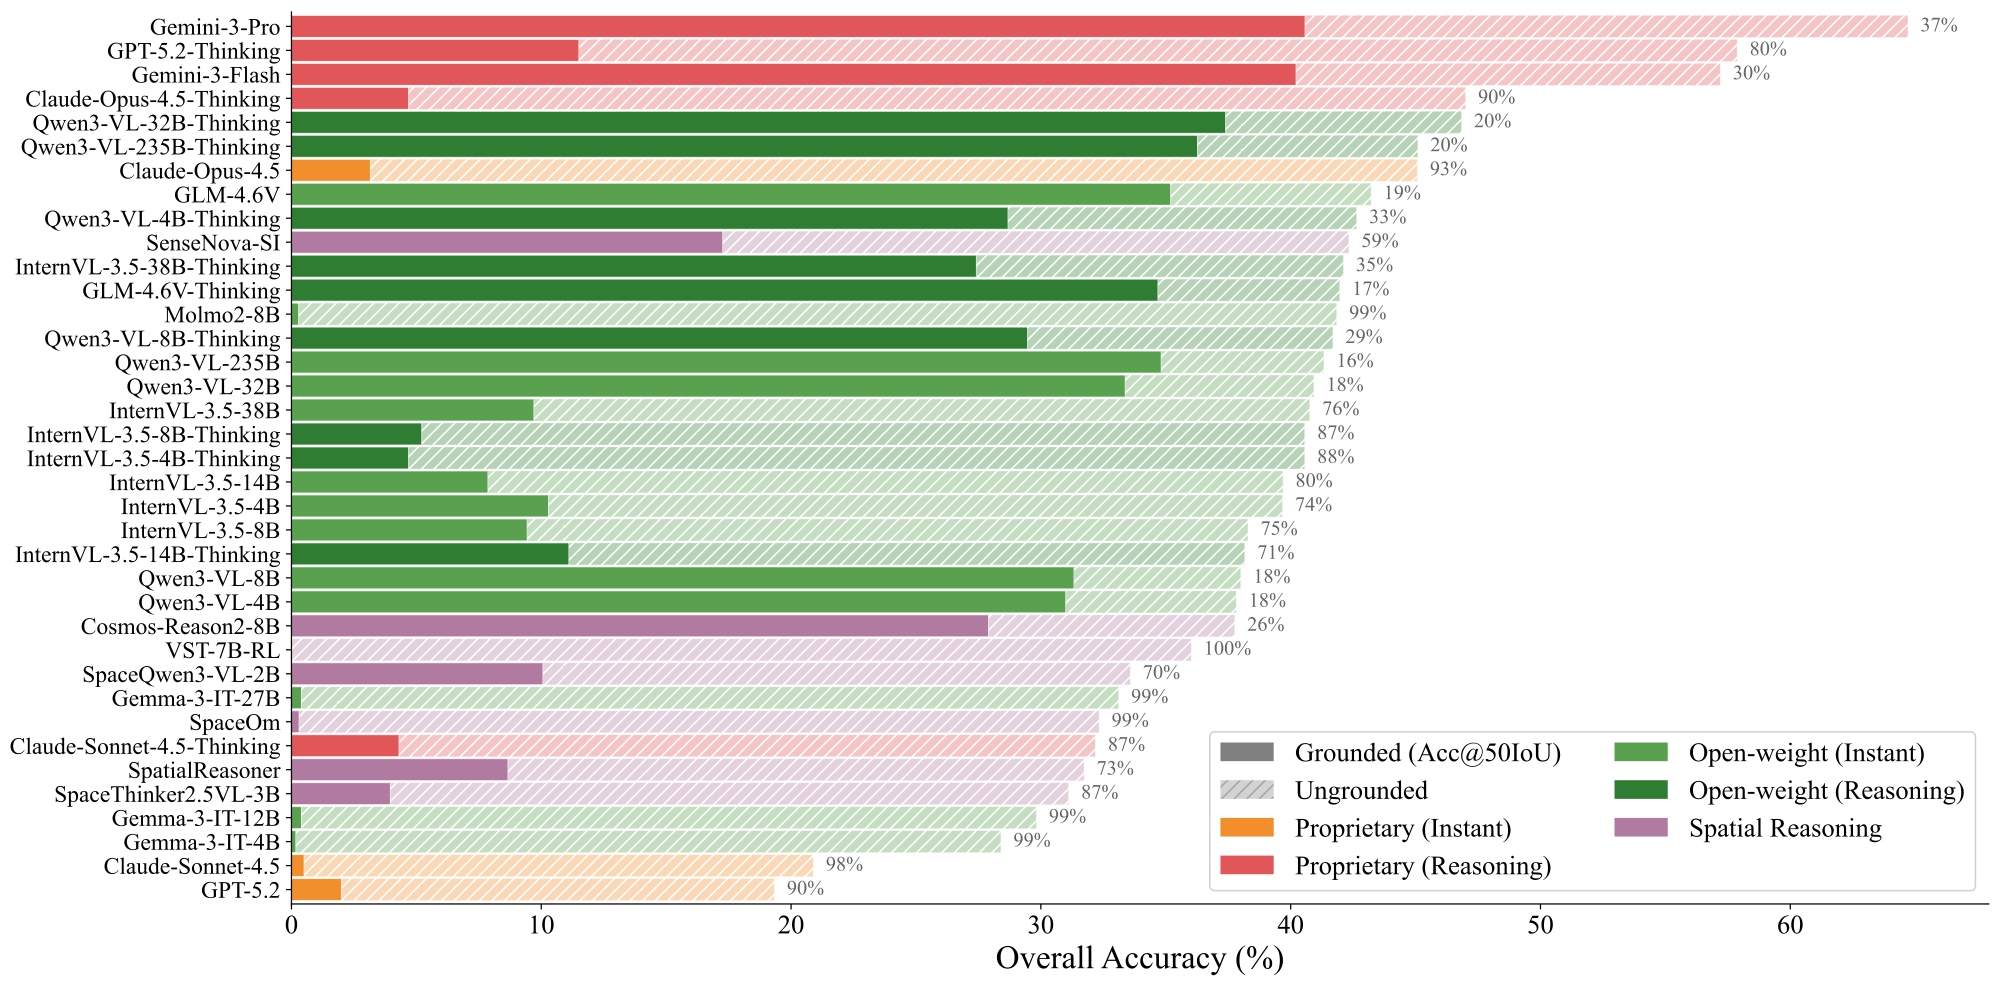
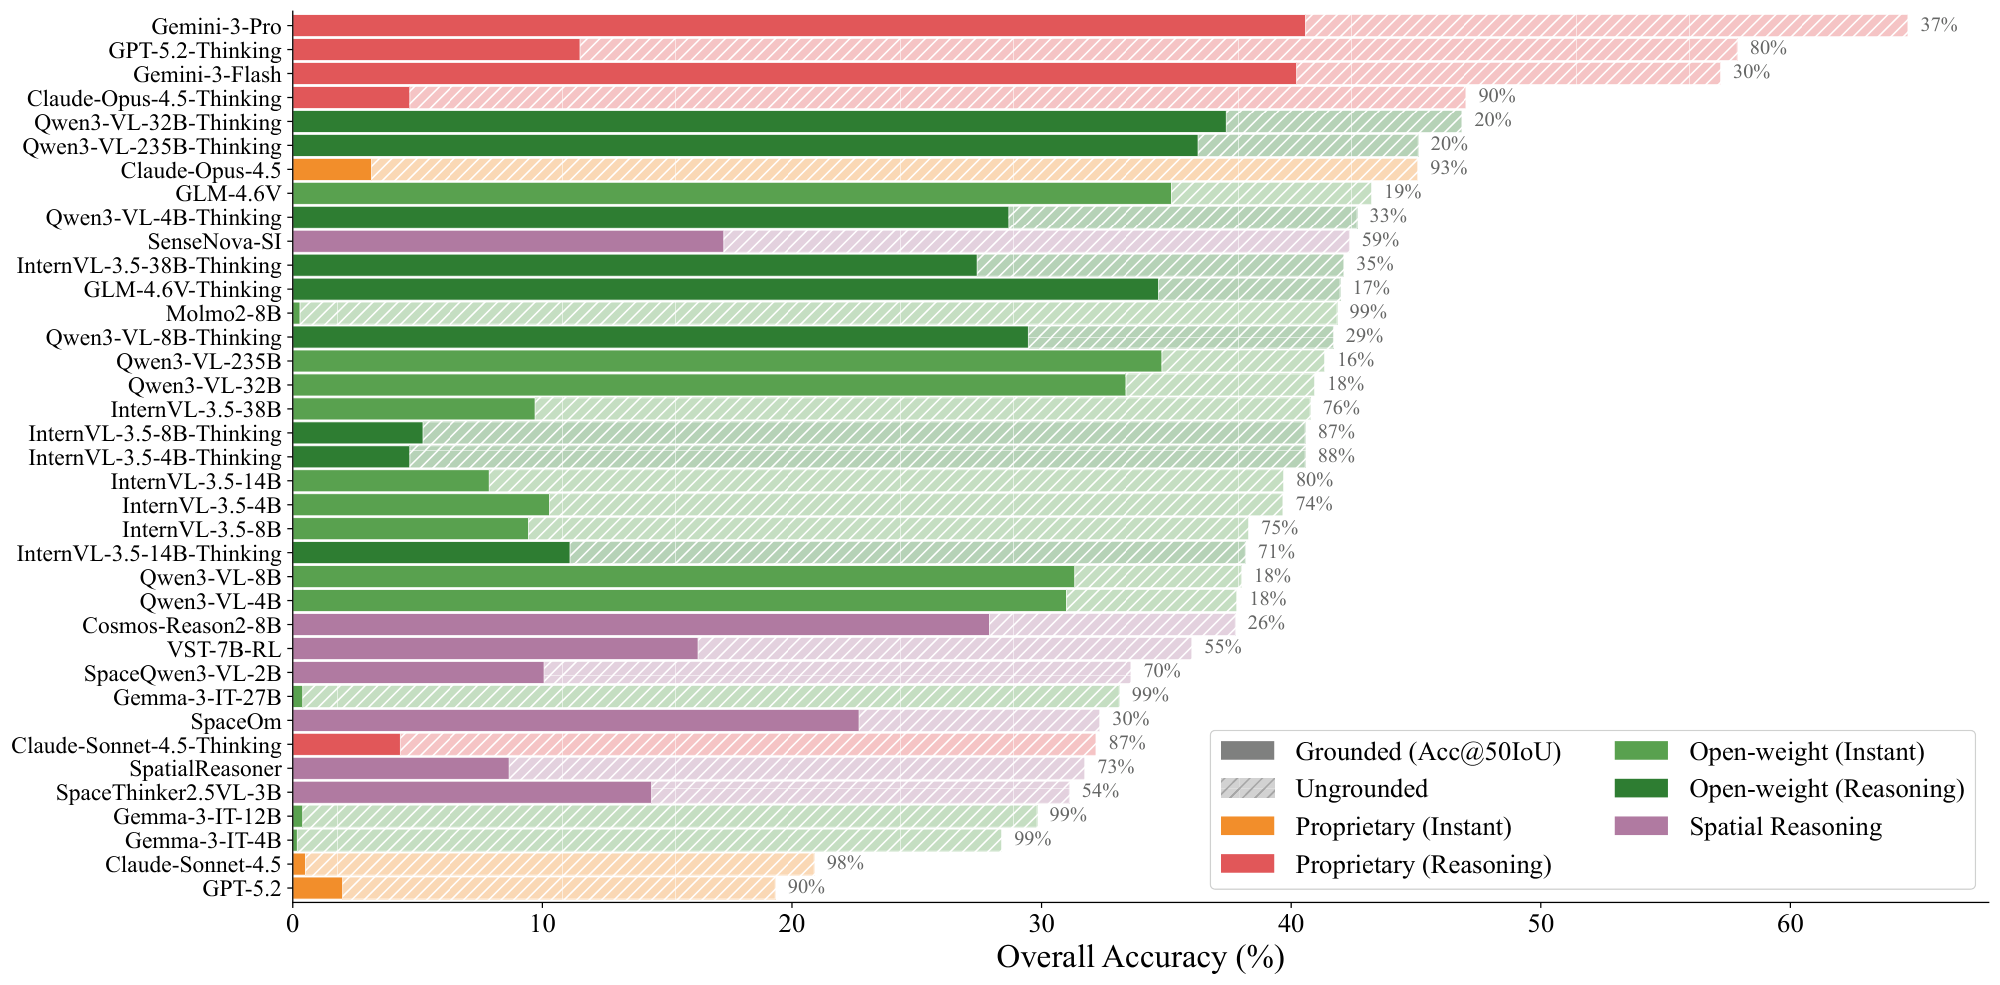
Update in-depth analysis figures and text for revised SRM results
Regenerate A1-A6 and A8 figures from the camera-ready LaTeX sources; the
A7 scaling figure is unaffected by the specialized-model update.

- A5: rewrite the conclusion. SRMs trail generalists on MCQ at every hop
  (-4.6 -> -1.6 -> -0.8) but overtake them on Acc@50IoU (+1.6/+4.0/+3.4);
  their advantage is grounding, not compositional reasoning.
- A1: replace the "widening ego-exo gap" claim (absolute gap actually
  narrows) with relative retention: 55.5% vs 63.6% of 1-hop MCQ accuracy
  at 3-hop, ego/exo ratio 0.48 -> 0.42.
- A3: the reasoning gain narrows only in the ego-centric view
  (+11.9 -> +4.9 pp); the exo-centric gain stays flat (+10.2 -> +10.8 pp).
  Fix "sub-20% MCQ" -> "roughly 20%" (3-hop ego reasoning average is 20.4).

Changed region(s): [[0.0, 0.0, 0.992, 1.0]]

diff --git a/index.html b/index.html
@@ -660,7 +660,7 @@
       </div>
       <div class="question-content">
         <p>Evaluating the impact of reasoning complexity across all 37 models reveals a <strong>consistent performance degradation</strong> as the number of hops increases, confirming that compositional spatial reasoning remains a fundamental challenge for current VLMs. Both MCQ accuracy and Acc@50IoU exhibit steep declines from 1-hop to 3-hop.</p>
-        <p>Crucially, this degradation is <strong>exacerbated under ego-centric evaluation</strong>, which requires additional perspective transformation. The widening performance gap between ego-centric and exo-centric views at higher hops suggests that perspective-taking compounds with multi-step reasoning, creating a <strong>multiplicative rather than additive difficulty</strong>.</p>
+        <p>Crucially, this degradation is <strong>exacerbated under ego-centric evaluation</strong>, which requires additional perspective transformation: going from 1-hop to 3-hop, the ego-centric view retains only <strong>55.5%</strong> of its MCQ accuracy (31.9 &rarr; 17.7) against <strong>63.6%</strong> for the exo-centric view (66.2 &rarr; 42.1), and 53.8% against 69.3% under Acc@50IoU. The ego/exo accuracy ratio therefore shrinks from 0.48 to 0.42, suggesting that perspective-taking compounds with multi-step reasoning in a <strong>multiplicative rather than additive</strong> manner.</p>
         <div class="figure-container">
           <img src="static/figures/fig1_hop_bar.png" alt="Average Performance by Hop Count">
           <p class="figure-caption">Average performance by hop count. Performance degrades consistently as reasoning hops increase.</p>
@@ -693,8 +693,8 @@
         <button class="question-toggle" type="button" aria-expanded="false"><i class="fas fa-chevron-down"></i></button>
       </div>
       <div class="question-content">
-        <p>While reasoning models consistently outperform instant models, this <strong>advantage diminishes under multi-hop pressure</strong>. The initial MCQ gain of up to +8 pp at 1-hop narrows considerably by 3-hop.</p>
-        <p>Critically, even with extended thinking, reasoning models plummet to <strong>sub-20% MCQ accuracy and sub-10% Acc@50IoU</strong> on 3-hop ego-centric tasks. This convergence toward the performance floor reveals that inference-time reasoning (e.g., chain-of-thought) yields diminishing returns as compositional steps accumulate. MultihopSpatial thus exposes a capability ceiling that test-time compute alone cannot resolve.</p>
+        <p>While reasoning models consistently outperform instant models, this <strong>advantage diminishes under multi-hop pressure in the ego-centric setting</strong>: the MCQ gain shrinks from <strong>+11.9 pp</strong> at 1-hop to <strong>+4.9 pp</strong> at 3-hop (and from +8.6 to +3.5 pp under Acc@50IoU), whereas the exo-centric gain stays largely flat (+10.2 to +10.8 pp).</p>
+        <p>Critically, even with extended thinking, reasoning models fall to <strong>roughly 20% MCQ accuracy and below 10% Acc@50IoU</strong> on 3-hop ego-centric tasks. This convergence toward the performance floor reveals that inference-time reasoning (e.g., chain-of-thought) yields diminishing returns as compositional steps accumulate. MultihopSpatial thus exposes a capability ceiling that test-time compute alone cannot resolve.</p>
         <div class="figure-container">
           <img src="static/figures/fig7b_4bars.png" alt="Reasoning vs. Instant Models">
           <p class="figure-caption">Reasoning vs. Instant models. The reasoning advantage shrinks with increasing hop count.</p>
@@ -727,8 +727,8 @@
         <button class="question-toggle" type="button" aria-expanded="false"><i class="fas fa-chevron-down"></i></button>
       </div>
       <div class="question-content">
-        <p>Comparing specialized spatial reasoning models (SRMs) against comparable general-purpose VLMs (&le;10B) reveals a <strong>counterintuitive trend: SRMs consistently underperform</strong> across all metrics and hop counts.</p>
-        <p>This shortfall primarily stems from the robust native grounding inherent in general models (e.g., Qwen3-VL), which most SRMs lack. These findings indicate that current SRMs, typically fine-tuned on single-step QA, <strong>fail to generalize to multi-hop scenarios</strong>, suggesting that general-purpose VLMs provide a stronger foundation for compositional spatial understanding.</p>
+        <p>Comparing specialized spatial reasoning models (SRMs) against comparable general-purpose VLMs (&le;10B) reveals a <strong>split verdict</strong>. Despite being explicitly tailored for spatial reasoning, SRMs are <strong>consistently outperformed by generalists on multi-hop MCQ accuracy</strong> at every hop count, although the gap narrows monotonically as the reasoning chain deepens (&minus;4.6 &rarr; &minus;1.6 &rarr; &minus;0.8 from 1- to 3-hop). Current spatial specialization therefore does not transfer to the compositional, multi-hop reasoning our benchmark targets.</p>
+        <p>The ordering <strong>only reverses under Acc@50IoU</strong>, which counts a prediction as correct only when the target is additionally localized (IoU &ge; 50%): here SRMs surpass their instant generalist counterparts at every hop, and the margin widens with hop depth (&Delta;+1.6, +4.0, +3.4). The advantage of SRMs is thus <strong>confined to grounding rather than reasoning</strong> &mdash; even with lower MCQ accuracy, they localize correctly answered targets more reliably. Generalists are stronger at answer selection while SRMs are stronger at localization, and these complementary strengths suggest that robust multi-hop spatial understanding requires the <strong>joint optimization of reasoning and grounding</strong>, which neither family currently attains.</p>
         <div class="figure-container">
           <img src="static/figures/fig10_srm.png" alt="Spatial Reasoning Models vs. General Models">
           <p class="figure-caption">Spatial Reasoning Models vs. General Models (&le;10B).</p>
